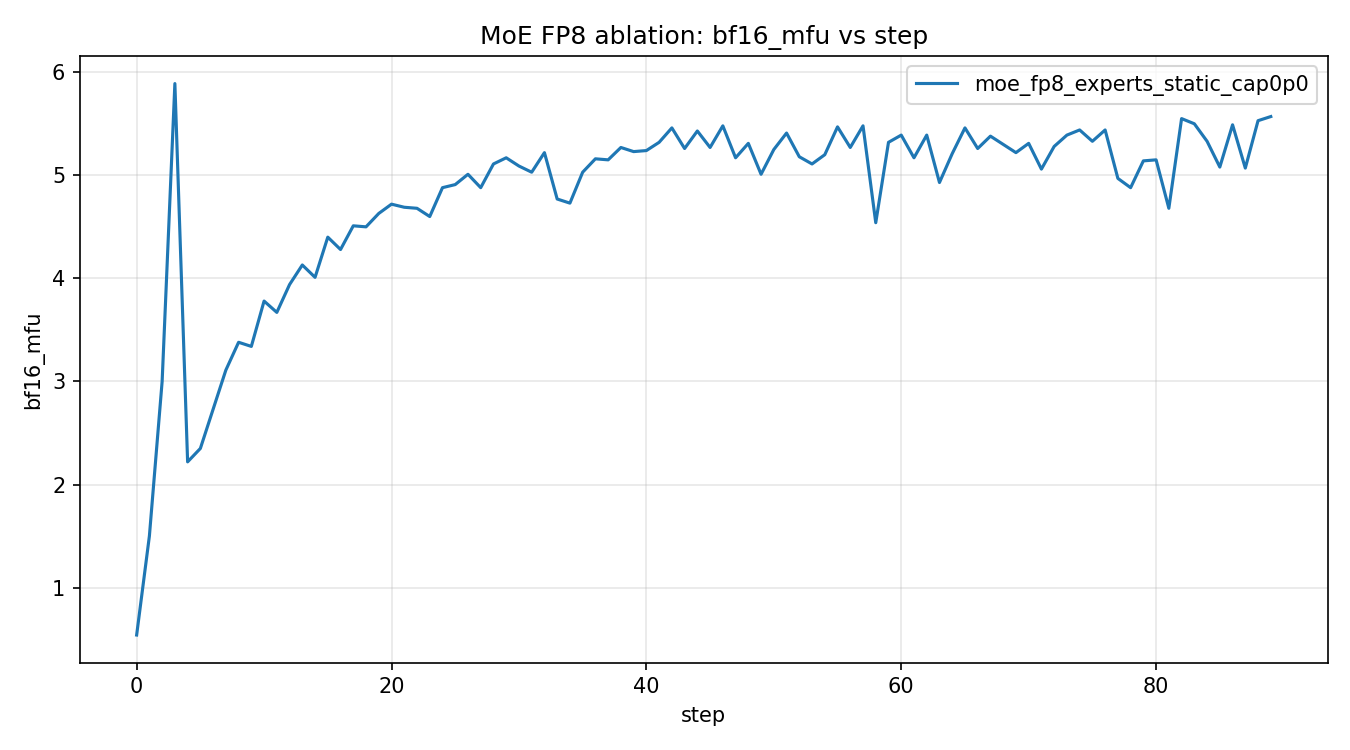
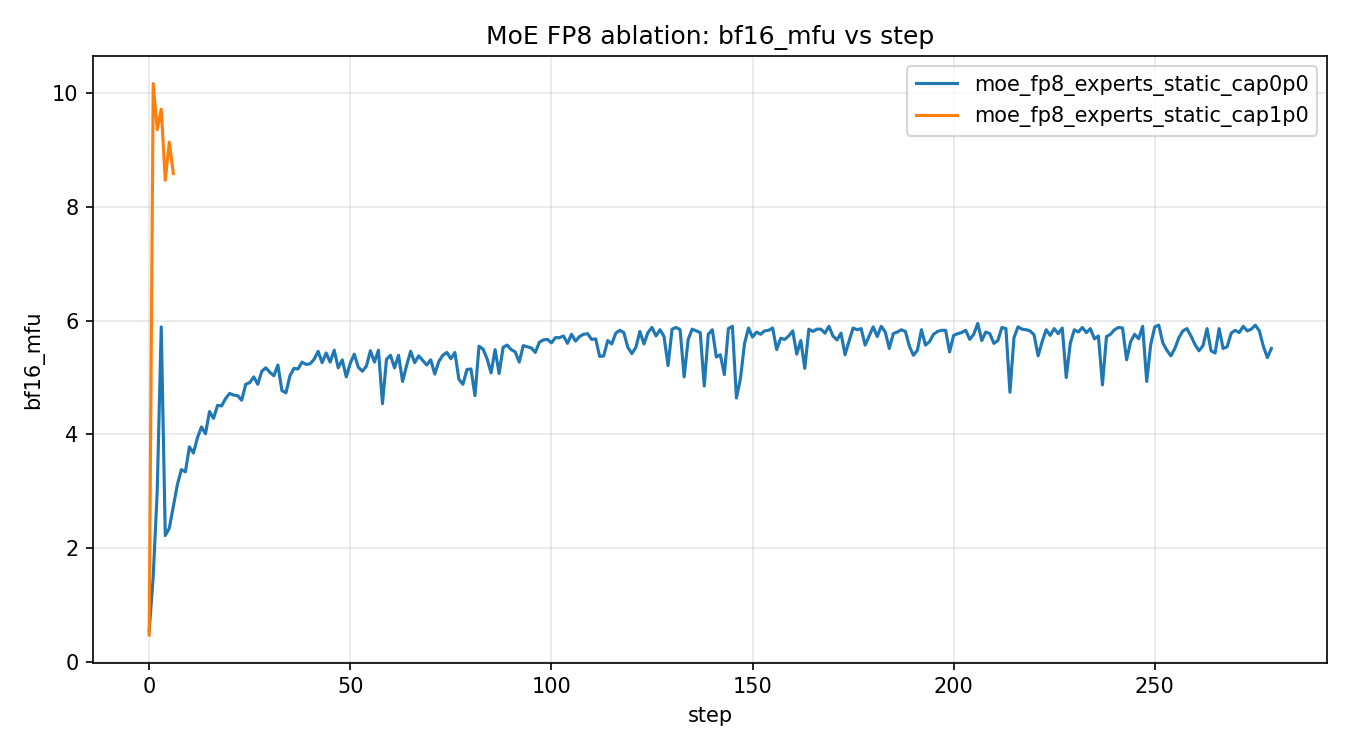
report: capture cap0.0 completion and cap1.0 warm-start transition
Context:
- Capacity-factor ablation queue is running with 8-GPU torchrun.
- Milestone reached: first run (cap0.0 static fp8) completed and second run (cap1.0 static fp8) started immediately.

Changes:
- Refreshed parsed artifacts and curves for the active experiment:
  - tmp_report/metrics/moe_fp8_ablation_steps.csv
  - tmp_report/metrics/moe_fp8_ablation_summary.csv
  - tmp_report/figures/moe_fp8_ablation_{loss,toksec,mfu,dt_ms}.png
- Added generated progress markdown:
  - tmp_report/20260224_1736_capacity_sweep_progress.md
- Added manual milestone note with interpretation:
  - tmp_report/20260224_1736_run1_done_run2_live.md

Key observed metrics:
- run1 moe_fp8_experts_static_cap0p0 (completed):
  - tail50 tok/sec: 468,782.94
  - tail50 dt_ms: 1120.38
  - tail50 bf16_mfu: 5.6722
  - peak_mem_mib: 22,790.06
  - total_time_min: 5.21
- run2 moe_fp8_experts_static_cap1p0 (live warm-start snapshot):
  - steps observed: 7
  - tail tok/sec (early): 660,109.57

Validation:
- source .venv/bin/activate
- python tmp_report/generate_moe_fp8_ablation_report.py --exp-dir /mnt/stepeval/yangxiaobo/cache/nanochat/tmp_exp/20260224_172715_moe-fp8-capacity-ablation-v1 --out-md tmp_report/20260224_1736_capacity_sweep_progress.md
- tail -n 20 /mnt/stepeval/yangxiaobo/cache/nanochat/tmp_exp/20260224_172715_moe-fp8-capacity-ablation-v1/launch.txt
- nvidia-smi --query-gpu=index,utilization.gpu,memory.used --format=csv,noheader

diff --git a/tmp_report/20260224_1736_run1_done_run2_live.md b/tmp_report/20260224_1736_run1_done_run2_live.md
@@ -1,0 +1,40 @@
+# Capacity Sweep Milestone: run1 done, run2 live
+
+- Timestamp: 2026-02-24 17:36 +08:00
+- Experiment: `/mnt/stepeval/yangxiaobo/cache/nanochat/tmp_exp/20260224_172715_moe-fp8-capacity-ablation-v1`
+- Queue: `runs/moe_fp8_capacity_ablation_queue.sh`
+
+## Queue Transition
+
+- `17:35:07` run1 finished: `moe_fp8_experts_static_cap0p0` (status=0)
+- `17:35:08` run2 started: `moe_fp8_experts_static_cap1p0`
+- Transition was immediate and GPU tasks remained active.
+
+## run1 Final Metrics (cap0.0, static, fp8 experts)
+
+- steps: `280/280`
+- total_time: `5.21 min`
+- peak_mem: `22790.06 MiB`
+- final loss: `3.718175`
+- tail50 tok/sec: `468,782.94`
+- tail50 dt: `1120.38 ms`
+- tail50 bf16_mfu: `5.6722`
+
+## run2 Live Early Metrics (cap1.0, static, fp8 experts)
+
+- steps observed: `7`
+- last step: `6/280`
+- last loss: `8.023365`
+- current tail(steps so far) tok/sec: `660,109.57`
+- current tail(steps so far) dt: `2513.43 ms` (inflated by first cold step)
+
+## Interpretation
+
+- Compared with run1, run2 early tok/sec is materially higher, consistent with the hypothesis that fixed capacity can improve static-compile throughput by stabilizing expert token shapes.
+- Current run2 tail metrics are still noisy because warmup includes `step0` compile overhead; final decision should use run2 tail50 near completion.
+
+## Next Actions
+
+1. Wait for run2 completion and extract true tail50 metrics.
+2. Compare run2 vs run1 on `tok/sec`, `dt`, `mfu`, and `peak_mem`.
+3. Continue to run3 (`cap1.25`) and dynamic/nocompile baselines for robustness.

diff --git a/tmp_report/20260224_1736_capacity_sweep_progress.md b/tmp_report/20260224_1736_capacity_sweep_progress.md
@@ -1,0 +1,25 @@
+# MoE FP8 Compile Ablation Progress
+
+Generated at: 2026-02-24 17:35:38
+
+Experiment dir: `/mnt/stepeval/yangxiaobo/cache/nanochat/tmp_exp/20260224_172715_moe-fp8-capacity-ablation-v1`
+
+## Run Summary
+
+| run | status | steps_observed | last_step | last_loss | tail50_tok/sec | tail50_mfu | tail50_dt_ms | peak_mem_mib | total_time_min |
+| --- | --- | ---: | ---: | ---: | ---: | ---: | ---: | ---: | ---: |
+| moe_fp8_experts_static_cap0p0 | completed | 280 | 279 | 3.7182 | 468783 | 5.67 | 1120.4 | 22790.06 | 5.21 |
+| moe_fp8_experts_static_cap1p0 | running | 7 | 6 | 8.0234 | 660110 | 7.99 | 2513.4 | - | - |
+
+## Dynamic Compile Status
+
+- No dynamic compile runs found in this experiment directory.
+
+## Artifacts
+
+- `tmp_report/metrics/moe_fp8_ablation_steps.csv`
+- `tmp_report/metrics/moe_fp8_ablation_summary.csv`
+- `tmp_report/figures/moe_fp8_ablation_loss.png`
+- `tmp_report/figures/moe_fp8_ablation_toksec.png`
+- `tmp_report/figures/moe_fp8_ablation_mfu.png`
+- `tmp_report/figures/moe_fp8_ablation_dt_ms.png`
